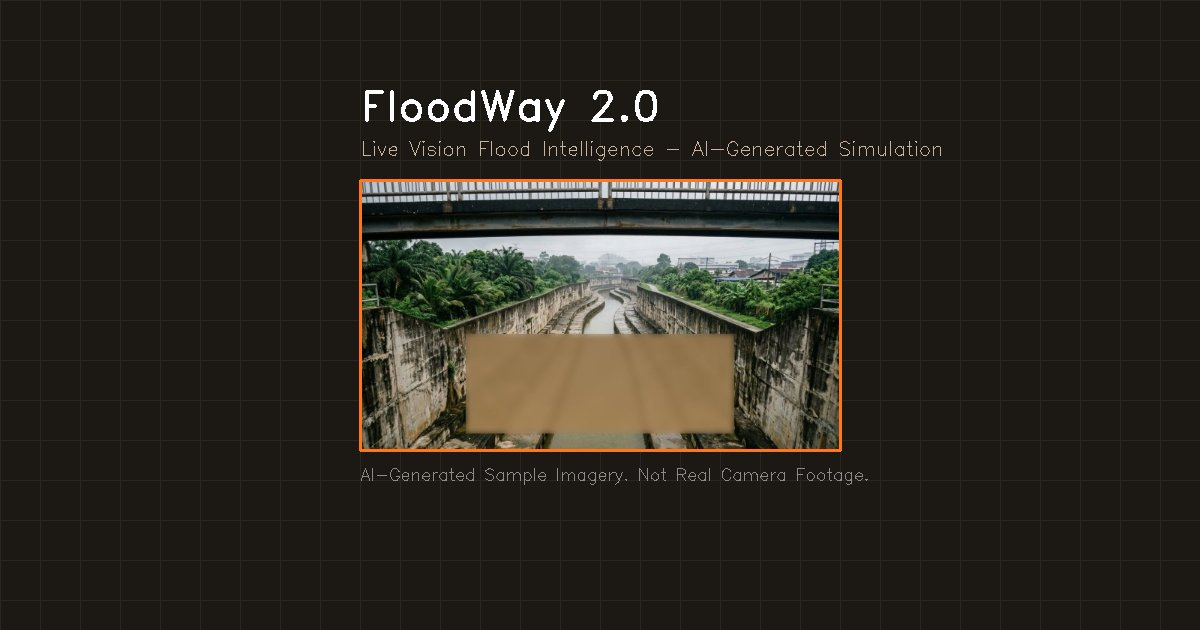
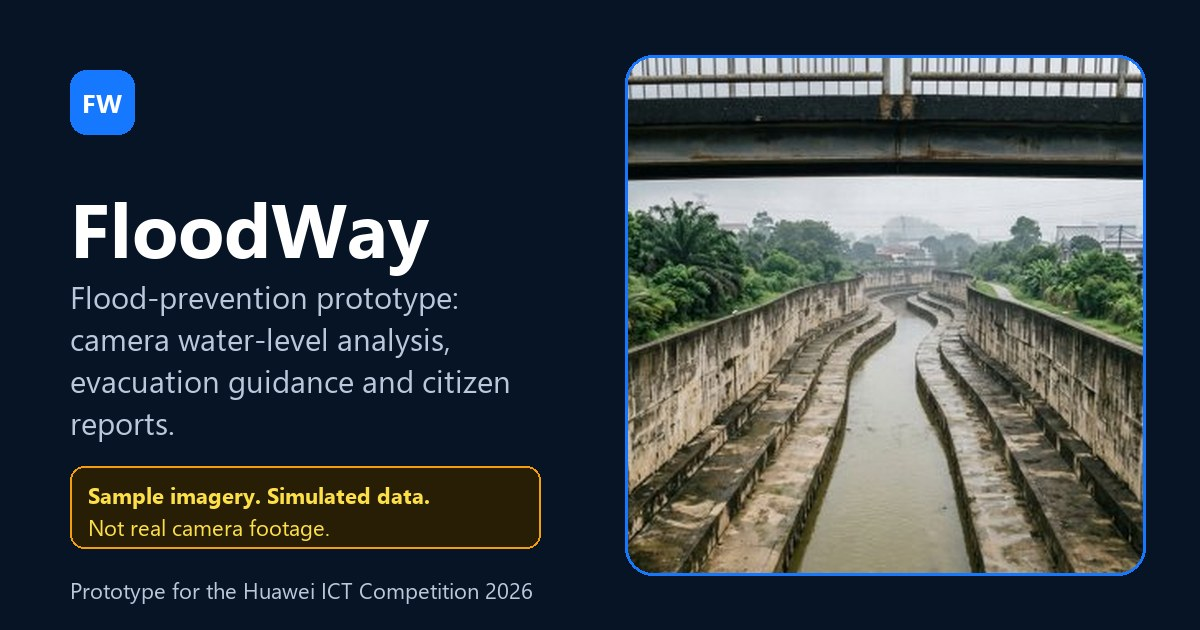
feat(P4-06): link preview image and metadata; allow pinch-zoom
- scripts/make_og_image.py builds a clean 1200x630 share image from the real
  AI-generated base photo (no pasted water), with 'Sample imagery. Simulated
  data.' on it. It replaces the Gemini one, which showed the drawn rectangle and
  the retired '2.0' name.
- index.html: description, Open Graph and Twitter tags, theme colour.
- The viewport tag had maximum-scale=1 and user-scalable=no, which blocks
  pinch-zoom on phones (WCAG 1.4.4). Removed.

diff --git a/frontend/index.html b/frontend/index.html
@@ -3,8 +3,21 @@
   <head>
     <meta charset="UTF-8" />
     <link rel="icon" type="image/svg+xml" href="/favicon.svg" />
-    <meta name="viewport" content="width=device-width, initial-scale=1.0, maximum-scale=1.0, user-scalable=no" />
+    <!-- Pinch-zoom must stay available (WCAG 1.4.4): no maximum-scale, no user-scalable=no. -->
+    <meta name="viewport" content="width=device-width, initial-scale=1.0" />
+    <meta name="theme-color" content="#071426" />
     <title>FloodWay - Flood Preparedness & Life-Safety Intelligence</title>
+    <meta name="description" content="FloodWay is a flood-prevention prototype: camera water-level analysis, evacuation guidance and citizen reports. Sample imagery and simulated data." />
+    <meta property="og:type" content="website" />
+    <meta property="og:site_name" content="FloodWay" />
+    <meta property="og:title" content="FloodWay: flood-prevention prototype" />
+    <meta property="og:description" content="Camera water-level analysis, evacuation guidance and citizen reports. Sample imagery and simulated data, not real camera footage." />
+    <!-- Crawlers need an absolute URL: when deployed, make this https://<your-domain>/media/og/floodway-og.jpg -->
+    <meta property="og:image" content="/media/og/floodway-og.jpg" />
+    <meta property="og:image:width" content="1200" />
+    <meta property="og:image:height" content="630" />
+    <meta property="og:image:alt" content="FloodWay: sample river camera image with the note: sample imagery, simulated data" />
+    <meta name="twitter:card" content="summary_large_image" />
     <link rel="preconnect" href="https://fonts.googleapis.com">
     <link rel="preconnect" href="https://fonts.gstatic.com" crossorigin>
     <link href="https://fonts.googleapis.com/css2?family=Outfit:wght@400;500;600;700;800;900&family=Inter:wght@300;400;500;600;700&family=JetBrains+Mono:wght@400;500;600&display=swap" rel="stylesheet">

diff --git a/scripts/make_og_image.py b/scripts/make_og_image.py
@@ -1,0 +1,77 @@
+"""Builds frontend/public/media/og/floodway-og.jpg (1200x630), the link-preview image.
+
+It uses the AI-generated NORMAL base photo of the Klang sample camera (no water overlay) and states plainly that the
+imagery is sample imagery and the data is simulated. Re-run after changing the text:
+    python scripts/make_og_image.py
+Needs Pillow and the Windows fonts Segoe UI / Segoe UI Bold (falls back to PIL's default font elsewhere).
+"""
+from pathlib import Path
+
+from PIL import Image, ImageDraw, ImageFont
+
+ROOT = Path(__file__).resolve().parent.parent
+PHOTO = ROOT / "backend/app/vision/sample_media/klang-normal.jpg"
+OUT = ROOT / "frontend/public/media/og/floodway-og.jpg"
+W, H = 1200, 630
+NAVY, BLUE, WHITE, MUTED = (7, 20, 38), (22, 119, 255), (255, 255, 255), (186, 200, 220)
+
+
+def font(name: str, size: int):
+    try:
+        return ImageFont.truetype(f"C:/Windows/Fonts/{name}", size)
+    except OSError:
+        return ImageFont.load_default()
+
+
+def wrap(draw: ImageDraw.ImageDraw, text: str, fnt, width: int) -> list[str]:
+    lines, cur = [], ""
+    for word in text.split():
+        trial = f"{cur} {word}".strip()
+        if draw.textlength(trial, font=fnt) <= width:
+            cur = trial
+        else:
+            lines.append(cur)
+            cur = word
+    return lines + ([cur] if cur else [])
+
+
+img = Image.new("RGB", (W, H), NAVY)
+d = ImageDraw.Draw(img)
+
+# photo on the right, rounded, with a thin blue edge
+photo = Image.open(PHOTO).convert("RGB")
+# The NORMAL frame has a thin drawn band near its bottom edge (see sample_media/README.md); leave it out of the preview.
+photo = photo.crop((0, 0, photo.width, int(photo.height * 0.88)))
+pw, ph = 520, 520
+scale = max(pw / photo.width, ph / photo.height)
+photo = photo.resize((int(photo.width * scale), int(photo.height * scale)), Image.LANCZOS)
+left = (photo.width - pw) // 2
+photo = photo.crop((left, 0, left + pw, ph))
+mask = Image.new("L", (pw, ph), 0)
+ImageDraw.Draw(mask).rounded_rectangle((0, 0, pw, ph), radius=28, fill=255)
+img.paste(photo, (W - pw - 55, (H - ph) // 2), mask)
+d.rounded_rectangle((W - pw - 55, (H - ph) // 2, W - 55, (H + ph) // 2), radius=28, outline=BLUE, width=3)
+
+# text on the left
+x = 70
+d.rounded_rectangle((x, 70, x + 64, 134), radius=16, fill=BLUE)
+d.text((x + 32, 102), "FW", font=font("segoeuib.ttf", 26), fill=WHITE, anchor="mm")
+d.text((x, 175), "FloodWay", font=font("segoeuib.ttf", 76), fill=WHITE)
+y = 275
+for line in wrap(d, "Flood-prevention prototype: camera water-level analysis, evacuation guidance and citizen reports.", font("segoeui.ttf", 31), 480):
+    d.text((x, y), line, font=font("segoeui.ttf", 31), fill=MUTED)
+    y += 42
+d.rounded_rectangle((x, 466, x + 470, 548), radius=14, fill=(40, 30, 6), outline=(245, 158, 11), width=2)
+note = font("segoeuib.ttf", 22)
+d.text((x + 18, 480), "Sample imagery. Simulated data.", font=note, fill=(253, 224, 71))
+d.text((x + 18, 512), "Not real camera footage.", font=font("segoeui.ttf", 22), fill=(253, 224, 71))
+d.text((x, 575), "Prototype for the Huawei ICT Competition 2026", font=font("segoeui.ttf", 22), fill=MUTED)
+
+OUT.parent.mkdir(parents=True, exist_ok=True)
+quality = 88
+while True:
+    img.save(OUT, "JPEG", quality=quality, optimize=True)
+    if OUT.stat().st_size <= 300 * 1024 or quality <= 60:
+        break
+    quality -= 6
+print(f"wrote {OUT} ({OUT.stat().st_size // 1024} KB, quality {quality})")
